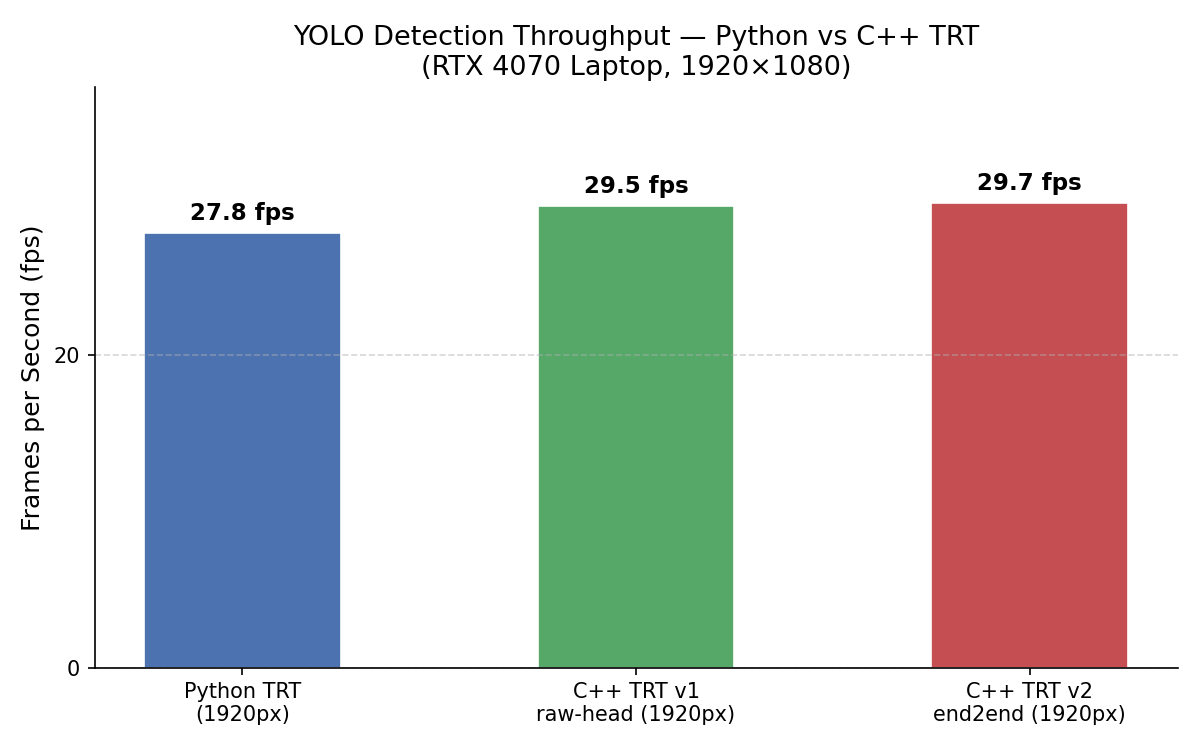
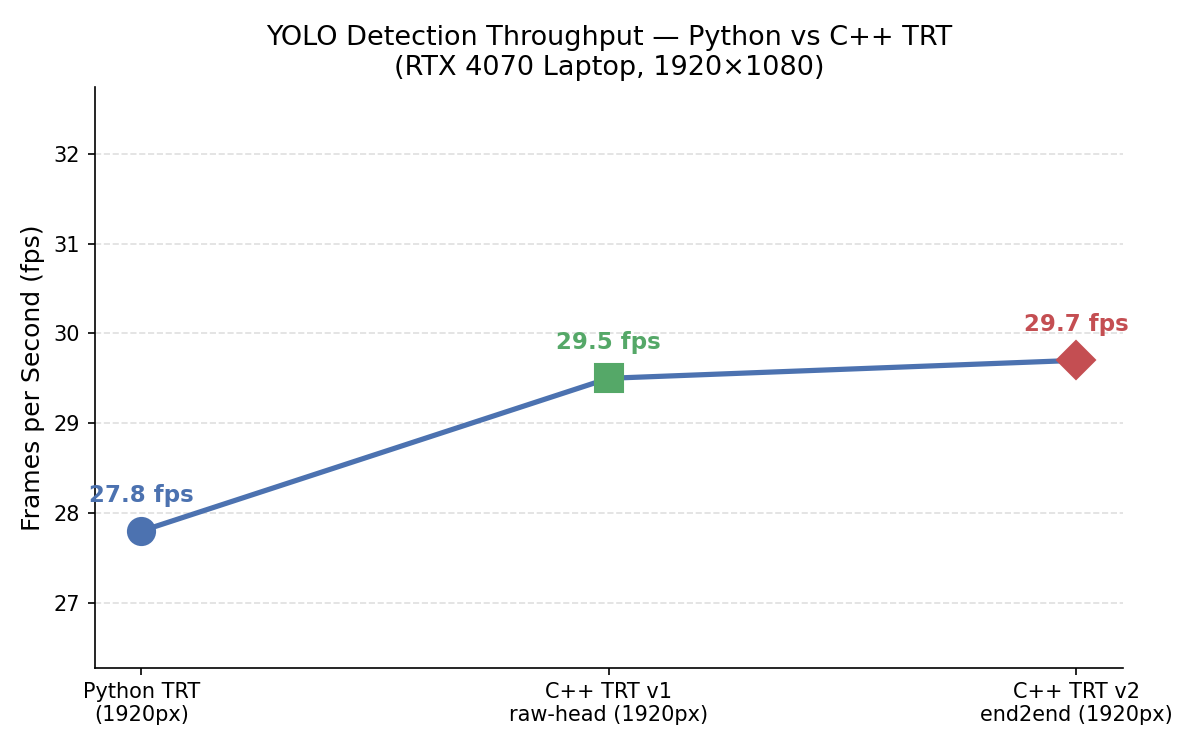
v1.2

diff --git a/docs/benchmark_chart.py b/docs/benchmark_chart.py
@@ -40,16 +40,27 @@ fps_vals = [records[s[0]]['det_fps_mean'] for s in SERIES if s[0] in records]
 lat_vals = [records[s[0]]['det_latency_mean_ms'] for s in SERIES if s[0] in records]
 
 colors = ['#4C72B0', '#55A868', '#C44E52']
+markers = ['o', 's', 'D']
 
-# ── FPS chart ────────────────────────────────────────────────────────────────
+# ── FPS chart — line chart, zoomed y-axis to show differences clearly ────────
+x = list(range(len(labels)))
 fig, ax = plt.subplots(figsize=(8, 5))
-bars = ax.bar(labels, fps_vals, color=colors, width=0.5, edgecolor='white', linewidth=0.8)
-ax.bar_label(bars, fmt='%.1f fps', padding=4, fontsize=11, fontweight='bold')
+ax.plot(x, fps_vals, color='#4C72B0', linewidth=2.5, marker='o', markersize=8,
+        markerfacecolor='white', markeredgewidth=2.5, zorder=3)
+for i, (xi, yi, c) in enumerate(zip(x, fps_vals, colors)):
+    ax.plot(xi, yi, marker=markers[i], markersize=13, color=c, zorder=4)
+    ax.annotate(f'{yi:.1f} fps', xy=(xi, yi), xytext=(0, 14),
+                textcoords='offset points', ha='center', fontsize=11,
+                fontweight='bold', color=c)
+ax.set_xticks(x)
+ax.set_xticklabels(labels, fontsize=10)
 ax.set_ylabel('Frames per Second (fps)', fontsize=12)
 ax.set_title('YOLO Detection Throughput — Python vs C++ TRT\n(RTX 4070 Laptop, 1920×1080)', fontsize=13)
-ax.set_ylim(0, max(fps_vals) * 1.25)
-ax.yaxis.set_major_locator(ticker.MultipleLocator(20))
-ax.grid(axis='y', linestyle='--', alpha=0.5)
+fps_min, fps_max = min(fps_vals), max(fps_vals)
+margin = (fps_max - fps_min) * 0.8
+ax.set_ylim(fps_min - margin, fps_max + margin * 2)
+ax.yaxis.set_major_locator(ticker.MultipleLocator(1))
+ax.grid(axis='y', linestyle='--', alpha=0.4)
 ax.spines[['top', 'right']].set_visible(False)
 plt.tight_layout()
 fig.savefig(BENCH_DIR.parent / 'docs' / 'benchmark_fps.png', dpi=150)

diff --git a/README.md b/README.md
@@ -14,7 +14,7 @@
     <img src="https://img.shields.io/badge/ROS2-Humble-blue?logo=ros" alt="ROS2"/>
     <img src="https://img.shields.io/badge/TensorRT-8.6%2B-green?logo=nvidia" alt="TensorRT"/>
     <img src="https://img.shields.io/badge/CUDA-12.x-green?logo=nvidia" alt="CUDA"/>
-    <img src="https://img.shields.io/badge/C%2B%2B-17-orange?logo=cplusplus" alt="C++17"/>
+    <img src="https://img.shields.io/badge/C%2B%2B-20-orange?logo=cplusplus" alt="C++20"/>
     <img src="https://img.shields.io/badge/License-GPL--3.0-red" alt="License"/>
     <img src="https://img.shields.io/github/stars/yanght24/trt-trackbot?style=social" alt="Stars"/>
   </p>
@@ -25,6 +25,10 @@
 > **trt-trackbot** = TensorRT end2end detector (CPU-NMS-free) + C++ ByteTrack + FSM controller + LiDAR distance control
 >
 > Full GPU pipeline: `/camera/image_raw` → letterbox → TRT infer → EfficientNMS → ByteTrack → FSM → `/cmd_vel`
+
+**trt-trackbot** is a ROS 2 robotics project that demonstrates how to build a real-time, interactive multi-object tracking system on a GPU-accelerated embedded/laptop platform. It is designed for researchers and engineers who want a **reproducible, benchmarkable baseline** for visual tracking on TurtleBot3 — from raw camera input all the way to closed-loop motor control.
+
+The project evolved through three detection backends (Python TRT → C++ TRT v1 → C++ TRT v2 end2end), each with recorded benchmarks, so you can study the latency and power trade-offs of each optimization step. The controller supports keyboard-driven target locking, LiDAR-based distance regulation, and EMA-filtered yaw control — all in a single C++ node.
 
 ## ✨ Features
 
@@ -44,11 +48,11 @@
 
 > Hardware: **NVIDIA RTX 4070 Laptop GPU** · Resolution: **1920 × 1080** · 30 s steady-state recording
 
-| | Backend | Mean FPS | Mean Latency | GPU Power | GPU Util |
-|:-:|:--------|:--------:|:------------:|:---------:|:--------:|
-| ❌ | Python TRT *(baseline)* | 27.8 | 29.0 ms | 43.5 W | 41% |
-| 🟡 | C++ TRT v1 *(raw-head)* | 29.5 | 8.6 ms | 26.1 W | 30% |
-| ✅ | **C++ TRT v2 *(end2end)*** | **29.7** | **2.4 ms** | **25.8 W** | **26%** |
+| | Backend | Mean FPS | Mean Latency | GPU Power | GPU Util | vs Baseline |
+|:-:|:--------|:--------:|:------------:|:---------:|:--------:|:-----------:|
+| ❌ | Python TRT *(baseline)* | 27.8 | 29.0 ms | 43.5 W | 41% | — |
+| 🟡 | C++ TRT v1 *(raw-head)* | 29.5 | 8.6 ms | 26.1 W | 30% | latency **−70%** |
+| ✅ | **C++ TRT v2 *(end2end)*** | **29.7** | **2.4 ms** | **25.8 W** | **26%** | latency **−92%**, power **−41%** |
 
 > 🚀 v2 end2end moves all NMS inside TensorRT via `EfficientNMS_TRT` — zero CPU postprocessing.
 > **12× faster than Python · 3.6× faster than C++ v1**
@@ -65,12 +69,6 @@ python3 docs/benchmark_chart.py
 # → docs/benchmark_latency.png
 ```
 </details>
-
----
-
-## ⭐ Star History
-
-[![Star History Chart](https://api.star-history.com/svg?repos=yanght24/trt-trackbot&type=Date)](https://star-history.com/#yanght24/trt-trackbot&Date)
 
 ---
 
@@ -536,6 +534,12 @@ See [THIRD_PARTY_NOTICES.md](THIRD_PARTY_NOTICES.md) for full attribution.
 | [OpenCV](https://github.com/opencv/opencv) | Apache-2.0 | Image preprocessing & overlay |
 | [TensorRT](https://developer.nvidia.com/tensorrt) | NVIDIA SLA | GPU inference runtime |
 | ROS 2 Humble / rclcpp | Apache-2.0 | Robotics middleware |
+
+---
+
+## ⭐ Star History
+
+[![Star History Chart](https://api.star-history.com/svg?repos=yanght24/trt-trackbot&type=Date)](https://star-history.com/#yanght24/trt-trackbot&Date)
 
 ---
 

diff --git a/README_zh.md b/README_zh.md
@@ -14,7 +14,7 @@
     <img src="https://img.shields.io/badge/ROS2-Humble-blue?logo=ros" alt="ROS2"/>
     <img src="https://img.shields.io/badge/TensorRT-8.6%2B-green?logo=nvidia" alt="TensorRT"/>
     <img src="https://img.shields.io/badge/CUDA-12.x-green?logo=nvidia" alt="CUDA"/>
-    <img src="https://img.shields.io/badge/C%2B%2B-17-orange?logo=cplusplus" alt="C++17"/>
+    <img src="https://img.shields.io/badge/C%2B%2B-20-orange?logo=cplusplus" alt="C++20"/>
     <img src="https://img.shields.io/badge/License-GPL--3.0-red" alt="License"/>
     <img src="https://img.shields.io/github/stars/yanght24/trt-trackbot?style=social" alt="Stars"/>
   </p>
@@ -25,6 +25,10 @@
 > **trt-trackbot** = TensorRT end2end 检测器（无 CPU NMS）+ C++ ByteTrack + FSM 控制器 + LiDAR 距离控制
 >
 > 完整 GPU 管线：`/camera/image_raw` → letterbox → TRT 推理 → EfficientNMS → ByteTrack → FSM → `/cmd_vel`
+
+**trt-trackbot** 是一个 ROS 2 机器人项目，展示了如何在 GPU 加速的笔记本/嵌入式平台上构建实时、可交互的多目标跟踪系统。它面向希望在 TurtleBot3 上获得**可复现、可基准测试的视觉跟踪基线**的研究者和工程师——从原始摄像头输入到闭环电机控制的完整链路。
+
+项目经历了三个检测后端的演进（Python TRT → C++ TRT v1 → C++ TRT v2 end2end），每个阶段都附有录制的基准数据，你可以清晰地研究各优化步骤的延迟和功耗权衡。控制器支持键盘驱动的目标锁定、LiDAR 距离调节和 EMA 滤波的偏航控制——全部集成在单个 C++ 节点中。
 
 ## ✨ 功能特性
 
@@ -44,11 +48,11 @@
 
 > 测试环境：**NVIDIA RTX 4070 Laptop GPU** · 分辨率：**1920 × 1080** · 稳定阶段录制 30 秒
 
-| | 后端 | 平均 FPS | 平均延迟 | GPU 功耗 | GPU 利用率 |
-|:-:|:-----|:-------:|:-------:|:-------:|:---------:|
-| ❌ | Python TRT *(基线)* | 27.8 | 29.0 ms | 43.5 W | 41% |
-| 🟡 | C++ TRT v1 *(raw-head)* | 29.5 | 8.6 ms | 26.1 W | 30% |
-| ✅ | **C++ TRT v2 *(end2end)*** | **29.7** | **2.4 ms** | **25.8 W** | **26%** |
+| | 后端 | 平均 FPS | 平均延迟 | GPU 功耗 | GPU 利用率 | 相比基线 |
+|:-:|:-----|:-------:|:-------:|:-------:|:---------:|:-------:|
+| ❌ | Python TRT *(基线)* | 27.8 | 29.0 ms | 43.5 W | 41% | — |
+| 🟡 | C++ TRT v1 *(raw-head)* | 29.5 | 8.6 ms | 26.1 W | 30% | 延迟 **−70%** |
+| ✅ | **C++ TRT v2 *(end2end)*** | **29.7** | **2.4 ms** | **25.8 W** | **26%** | 延迟 **−92%**，功耗 **−41%** |
 
 > 🚀 v2 end2end 将全部 NMS 移入 TensorRT（`EfficientNMS_TRT`），CPU 零后处理。
 > **相比 Python 快 12× · 相比 C++ v1 快 3.6×**
@@ -65,12 +69,6 @@ python3 docs/benchmark_chart.py
 # → docs/benchmark_latency.png
 ```
 </details>
-
----
-
-## ⭐ Star History
-
-[![Star History Chart](https://api.star-history.com/svg?repos=yanght24/trt-trackbot&type=Date)](https://star-history.com/#yanght24/trt-trackbot&Date)
 
 ---
 
@@ -535,6 +533,12 @@ trt-trackbot/
 | [OpenCV](https://github.com/opencv/opencv) | Apache-2.0 | 图像预处理与叠加绘制 |
 | [TensorRT](https://developer.nvidia.com/tensorrt) | NVIDIA SLA | GPU 推理运行时 |
 | ROS 2 Humble / rclcpp | Apache-2.0 | 机器人中间件 |
+
+---
+
+## ⭐ Star History
+
+[![Star History Chart](https://api.star-history.com/svg?repos=yanght24/trt-trackbot&type=Date)](https://star-history.com/#yanght24/trt-trackbot&Date)
 
 ---
 
